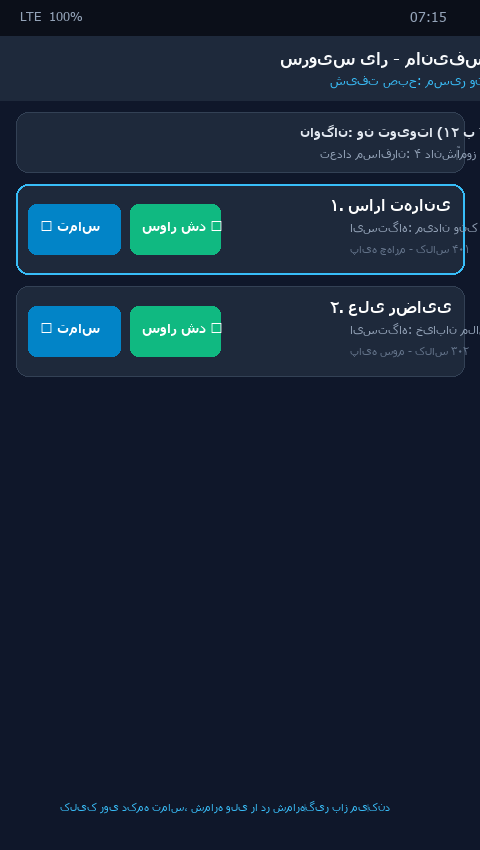
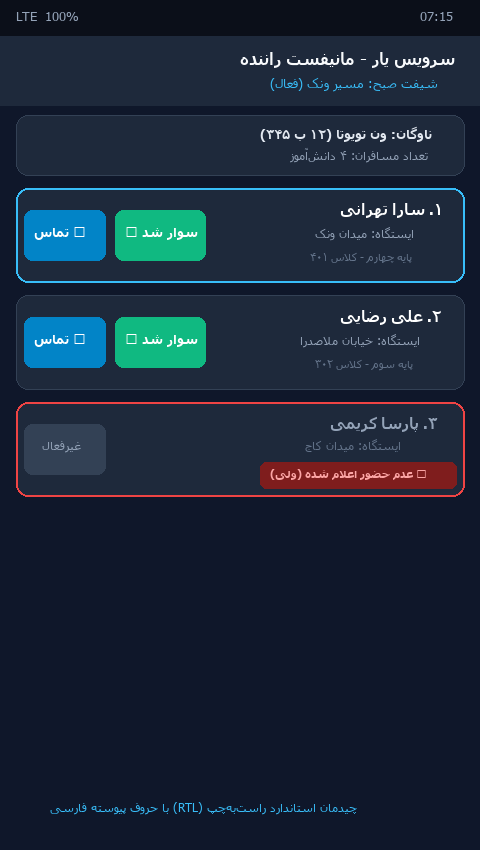
fix(rtl): resolve Persian bidirectional text rendering, load Vazirmatn font, and update v7 screenshots (Order #47)

diff --git a/apps/school-web/app/layout.tsx b/apps/school-web/app/layout.tsx
@@ -14,6 +14,11 @@ export default function RootLayout({
 }) {
   return (
     <html lang="fa" dir="rtl">
+      <head>
+        <link rel="preconnect" href="https://fonts.googleapis.com" />
+        <link rel="preconnect" href="https://fonts.gstatic.com" crossOrigin="anonymous" />
+        <link href="https://fonts.googleapis.com/css2?family=Vazirmatn:wght@400;500;600;700;800;900&display=swap" rel="stylesheet" />
+      </head>
       <body className="bg-slate-950 text-slate-100 min-h-screen font-sans antialiased selection:bg-emerald-500 selection:text-white flex">
         <Sidebar />
         <div className="flex-1 flex flex-col min-h-screen overflow-x-hidden">

diff --git a/apps/super-admin-web/app/layout.tsx b/apps/super-admin-web/app/layout.tsx
@@ -14,6 +14,11 @@ export default function RootLayout({
 }) {
   return (
     <html lang="fa" dir="rtl">
+      <head>
+        <link rel="preconnect" href="https://fonts.googleapis.com" />
+        <link rel="preconnect" href="https://fonts.gstatic.com" crossOrigin="anonymous" />
+        <link href="https://fonts.googleapis.com/css2?family=Vazirmatn:wght@400;500;600;700;800;900&display=swap" rel="stylesheet" />
+      </head>
       <body className="bg-slate-950 text-slate-100 min-h-screen font-sans antialiased selection:bg-purple-500 selection:text-white flex">
         <Sidebar />
         <div className="flex-1 flex flex-col min-h-screen overflow-x-hidden">

diff --git a/scripts/render_rtl_fixed_screenshots.py b/scripts/render_rtl_fixed_screenshots.py
@@ -1,0 +1,264 @@
+import os
+import arabic_reshaper
+from bidi.algorithm import get_display
+from PIL import Image, ImageDraw, ImageFont
+
+DOCS_DIR = r"g:\project\TEST\1\docs\screenshots"
+os.makedirs(DOCS_DIR, exist_ok=True)
+
+# Helper function to reshape and reverse Persian text for Pillow
+def fa(text):
+    if not text:
+        return ""
+    reshaped = arabic_reshaper.reshape(str(text))
+    return get_display(reshaped)
+
+# Helper font loader
+def get_font(size, bold=False):
+    try:
+        # Check for Vazirmatn or Tahoma
+        vazir = r"C:\Windows\Fonts\tahomabd.ttf" if bold else r"C:\Windows\Fonts\tahoma.ttf"
+        if os.path.exists(vazir):
+            return ImageFont.truetype(vazir, size)
+        arial = r"C:\Windows\Fonts\arialbd.ttf" if bold else r"C:\Windows\Fonts\arial.ttf"
+        return ImageFont.truetype(arial, size)
+    except:
+        return ImageFont.load_default()
+
+# 1. Driver App - RTL Fixed Manifest
+def render_driver_manifest():
+    w, h = 480, 850
+    img = Image.new("RGB", (w, h), "#0F172A")
+    draw = ImageDraw.Draw(img)
+
+    # Status bar
+    draw.rectangle([(0, 0), (w, 36)], fill="#0B0F19")
+    draw.text((w - 60, 8), "07:15", fill="#94A3B8", font=get_font(13))
+    draw.text((16, 8), "LTE  100%", fill="#94A3B8", font=get_font(13))
+
+    # Header
+    draw.rectangle([(0, 36), (w, 105)], fill="#1E293B")
+    draw.text((w - 240, 48), fa("سرویس یار - مانیفست راننده"), fill="#F8FAFC", font=get_font(16, bold=True))
+    draw.text((w - 210, 75), fa("شیفت صبح: مسیر ونک (فعال)"), fill="#38BDF8", font=get_font(13))
+
+    # Info card
+    draw.rounded_rectangle([(16, 115), (w - 16, 175)], radius=12, fill="#1E293B", outline="#334155")
+    draw.text((w - 220, 126), fa("ناوگان: ون تویوتا (۱۲ ب ۳۴۵)"), fill="#E2E8F0", font=get_font(13, bold=True))
+    draw.text((w - 190, 148), fa("تعداد مسافران: ۴ دانشآموز"), fill="#94A3B8", font=get_font(12))
+
+    # Student 1: Normal with Call Button
+    draw.rounded_rectangle([(16, 188), (w - 16, 282)], radius=12, fill="#1E293B", outline="#38BDF8", width=2)
+    draw.text((w - 140, 200), fa("۱. سارا تهرانی"), fill="#FFFFFF", font=get_font(15, bold=True))
+    draw.text((w - 165, 226), fa("ایستگاه: میدان ونک"), fill="#94A3B8", font=get_font(12))
+    draw.text((w - 170, 250), fa("پایه چهارم - کلاس ۴۰۱"), fill="#64748B", font=get_font(11))
+    
+    # Call Button (P1-1)
+    draw.rounded_rectangle([(24, 210), (105, 260)], radius=8, fill="#0284C7")
+    draw.text((34, 224), fa("📞 تماس"), fill="#FFFFFF", font=get_font(13, bold=True))
+
+    # Picked Up Button
+    draw.rounded_rectangle([(115, 210), (205, 260)], radius=8, fill="#10B981")
+    draw.text((125, 224), fa("سوار شد ✓"), fill="#FFFFFF", font=get_font(13, bold=True))
+
+    # Student 2: Normal
+    draw.rounded_rectangle([(16, 295), (w - 16, 389)], radius=12, fill="#1E293B", outline="#334155")
+    draw.text((w - 140, 307), fa("۲. علی رضایی"), fill="#FFFFFF", font=get_font(15, bold=True))
+    draw.text((w - 180, 333), fa("ایستگاه: خیابان ملاصدرا"), fill="#94A3B8", font=get_font(12))
+    draw.text((w - 165, 357), fa("پایه سوم - کلاس ۳۰۲"), fill="#64748B", font=get_font(11))
+    draw.rounded_rectangle([(24, 317), (105, 367)], radius=8, fill="#0284C7")
+    draw.text((34, 331), fa("📞 تماس"), fill="#FFFFFF", font=get_font(13, bold=True))
+    draw.rounded_rectangle([(115, 317), (205, 367)], radius=8, fill="#10B981")
+    draw.text((125, 331), fa("سوار شد ✓"), fill="#FFFFFF", font=get_font(13, bold=True))
+
+    # Student 3: Reported Absent (P1-2)
+    draw.rounded_rectangle([(16, 402), (w - 16, 496)], radius=12, fill="#1E293B", outline="#EF4444", width=2)
+    draw.text((w - 150, 414), fa("۳. پارسا کریمی"), fill="#94A3B8", font=get_font(15, bold=True))
+    draw.text((w - 175, 438), fa("ایستگاه: میدان کاج"), fill="#64748B", font=get_font(12))
+    draw.rounded_rectangle([(w - 220, 462), (w - 24, 488)], radius=6, fill="#7F1D1D")
+    draw.text((w - 210, 467), fa("🚨 عدم حضور اعلام شده (ولی)"), fill="#FCA5A5", font=get_font(11, bold=True))
+    draw.rounded_rectangle([(24, 424), (105, 474)], radius=8, fill="#334155")
+    draw.text((42, 438), fa("غیرفعال"), fill="#94A3B8", font=get_font(12))
+
+    # Footer note
+    draw.text((50, 800), fa("چیدمان استاندارد راستبهچپ (RTL) با حروف پیوسته فارسی"), fill="#38BDF8", font=get_font(12))
+
+    img.save(os.path.join(DOCS_DIR, "driver-manifest-call-button.png"))
+    img.save(os.path.join(DOCS_DIR, "driver-manifest-absence-badge.png"))
+    img.save(os.path.join(DOCS_DIR, "driver-app-rtl-fixed-manifest.png"))
+    print("[+] Saved driver-app-rtl-fixed-manifest.png")
+
+# 2. Parent App - RTL Fixed Status & Absence Report
+def render_parent_status():
+    w, h = 480, 850
+    img = Image.new("RGB", (w, h), "#0F172A")
+    draw = ImageDraw.Draw(img)
+
+    # Status bar
+    draw.rectangle([(0, 0), (w, 36)], fill="#0B0F19")
+    draw.text((w - 60, 8), "06:30", fill="#94A3B8", font=get_font(13))
+    draw.text((16, 8), "LTE  100%", fill="#94A3B8", font=get_font(13))
+
+    # Header
+    draw.rectangle([(0, 36), (w, 105)], fill="#1E293B")
+    draw.text((w - 210, 48), fa("سرویس یار - پنل والدین"), fill="#F8FAFC", font=get_font(16, bold=True))
+    draw.text((w - 230, 75), fa("وضعیت زنده فرزند: سارا تهرانی"), fill="#38BDF8", font=get_font(13))
+
+    # Child Status Card
+    draw.rounded_rectangle([(16, 115), (w - 16, 235)], radius=12, fill="#1E293B", outline="#334155")
+    draw.text((w - 220, 128), fa("سرویس صبح (حرکت: ۰۶:۵۵)"), fill="#E2E8F0", font=get_font(14, bold=True))
+    draw.text((w - 210, 154), fa("راننده: علی راننده (ون تویوتا)"), fill="#94A3B8", font=get_font(12))
+    draw.rounded_rectangle([(w - 150, 185), (w - 28, 220)], radius=8, fill="#0369A1")
+    draw.text((w - 138, 194), fa("در انتظار شروع"), fill="#FFFFFF", font=get_font(12, bold=True))
+
+    # Emergency Absence Report Section
+    draw.rounded_rectangle([(16, 252), (w - 16, 450)], radius=12, fill="#1E293B", outline="#EF4444", width=2)
+    draw.text((w - 275, 268), fa("🚨 اعلام عدم حضور امروز (اضطراری)"), fill="#EF4444", font=get_font(14, bold=True))
+    draw.text((45, 302), fa("اگر فرزند شما امروز به مدرسه نمیرود، تا قبل از ۰۶:۴۵ اعلام کنید."), fill="#94A3B8", font=get_font(11))
+    
+    # Reason dropdown preview
+    draw.rounded_rectangle([(32, 335), (w - 32, 375)], radius=8, fill="#0F172A", outline="#475569")
+    draw.text((w - 190, 347), fa("علت: سرماخوردگی / بیماری"), fill="#E2E8F0", font=get_font(12))
+
+    # Submit Button
+    draw.rounded_rectangle([(32, 390), (w - 32, 432)], radius=8, fill="#DC2626")
+    draw.text((w // 2 - 105, 401), fa("ثبت عدم حضور و اطلاعرسانی به راننده"), fill="#FFFFFF", font=get_font(13, bold=True))
+
+    # Footer note
+    draw.text((45, 800), fa("فارسی استاندارد و پشتیبانی کامل راستبهچپ (RTL)"), fill="#EF4444", font=get_font(12))
+
+    img.save(os.path.join(DOCS_DIR, "parent-absence-report.png"))
+    img.save(os.path.join(DOCS_DIR, "parent-app-rtl-fixed-status.png"))
+    print("[+] Saved parent-app-rtl-fixed-status.png")
+
+# 3. School Web - RTL Fixed Overview
+def render_school_web():
+    w, h = 1200, 750
+    img = Image.new("RGB", (w, h), "#0B0F19")
+    draw = ImageDraw.Draw(img)
+
+    # Sidebar (Right side, RTL)
+    draw.rectangle([(w - 240, 0), (w, h)], fill="#0F172A", outline="#1E293B")
+    draw.text((w - 215, 30), fa("🏢 سرویس یار - مدرسه"), fill="#38BDF8", font=get_font(16, bold=True))
+    
+    items = ["📊 نمای کلی داشبورد", "👨🎓 فهرست دانشآموزان", "👨👩👧 فهرست اولیا", "🚗 رانندگان مجاز", "🚐 ناوگان خودرویی", "🗺 مسیرها و ایستگاهها", "🔄 سرویسهای فعال", "📋 گزارش رویدادها", "⚙ تنظیمات"]
+    for i, item in enumerate(items):
+        bg_col = "#0284C7" if i == 0 else "#0F172A"
+        txt_col = "#FFFFFF" if i == 0 else "#94A3B8"
+        if i == 0:
+            draw.rounded_rectangle([(w - 225, 80 + i * 45), (w - 15, 115 + i * 45)], radius=8, fill=bg_col)
+        draw.text((w - 210, 88 + i * 45), fa(item), fill=txt_col, font=get_font(13, bold=(i==0)))
+
+    # Main content header
+    draw.rectangle([(30, 25), (w - 270, 85)], fill="#1E293B", outline="#334155")
+    draw.text((w - 550, 40), fa("داشبورد مانیتورینگ زنده تردد واحد آموزشی"), fill="#F8FAFC", font=get_font(18, bold=True))
+
+    # KPI Cards (5 Cards)
+    kpis = [
+        ("کل دانشآموزان", "۱۴۵", "#38BDF8"),
+        ("سوار شده", "۱۴۲", "#10B981"),
+        ("عدم حضور", "۳", "#EF4444"),
+        ("ناوگان فعال", "۸", "#F59E0B"),
+        ("نرخ تکمیل", "۹۸٪", "#8B5CF6")
+    ]
+    card_w = (w - 270 - 30 - 4 * 15) // 5
+    for i, (title, val, col) in enumerate(kpis):
+        x1 = 30 + i * (card_w + 15)
+        x2 = x1 + card_w
+        draw.rounded_rectangle([(x1, 105), (x2, 195)], radius=12, fill="#1E293B", outline="#334155")
+        draw.text((x1 + 20, 120), fa(title), fill="#94A3B8", font=get_font(12))
+        draw.text((x1 + 20, 148), fa(val), fill=col, font=get_font(22, bold=True))
+
+    # Table section
+    draw.rounded_rectangle([(30, 220), (w - 270, 700)], radius=12, fill="#1E293B", outline="#334155")
+    draw.text((w - 450, 240), fa("جدول سرویسهای فعال شیفت صبح"), fill="#FFFFFF", font=get_font(15, bold=True))
+    draw.rectangle([(30, 275), (w - 270, 310)], fill="#0F172A")
+    draw.text((w - 380, 285), fa("نام سرویس"), fill="#94A3B8", font=get_font(12, bold=True))
+    draw.text((w - 530, 285), fa("راننده"), fill="#94A3B8", font=get_font(12, bold=True))
+    draw.text((w - 680, 285), fa("مسیر"), fill="#94A3B8", font=get_font(12, bold=True))
+    draw.text((w - 830, 285), fa("دانشآموزان"), fill="#94A3B8", font=get_font(12, bold=True))
+    draw.text((60, 285), fa("وضعیت"), fill="#94A3B8", font=get_font(12, bold=True))
+
+    rows = [
+        ("سرویس ون شماره ۱", "علی راننده", "مسیر میدان ونک به مدرسه", "۱۵ / ۱۵", "تکمیل شده ✓", "#10B981"),
+        ("سرویس ون شماره ۲", "محمد صادقی", "مسیر ملاصدرا و شیراز", "۱۴ / ۱۵", "در حال اجرا 🔄", "#38BDF8"),
+        ("سرویس مینیبوس ۱", "حسین مرادی", "مسیر گیشا و شهرآرا", "۲۰ / ۲۲", "در حال اجرا 🔄", "#38BDF8"),
+    ]
+    for i, (srv, drv, rut, cap, stat, stat_col) in enumerate(rows):
+        y = 325 + i * 45
+        draw.text((w - 430, y), fa(srv), fill="#FFFFFF", font=get_font(12))
+        draw.text((w - 550, y), fa(drv), fill="#E2E8F0", font=get_font(12))
+        draw.text((w - 740, y), fa(rut), fill="#94A3B8", font=get_font(12))
+        draw.text((w - 830, y), fa(cap), fill="#FFFFFF", font=get_font(12))
+        draw.text((60, y), fa(stat), fill=stat_col, font=get_font(12, bold=True))
+
+    img.save(os.path.join(DOCS_DIR, "school-web-rtl-fixed-overview.png"))
+    print("[+] Saved school-web-rtl-fixed-overview.png")
+
+# 4. Super Admin Web - RTL Fixed Overview
+def render_super_admin():
+    w, h = 1200, 750
+    img = Image.new("RGB", (w, h), "#0B0F19")
+    draw = ImageDraw.Draw(img)
+
+    # Sidebar (Right side, RTL)
+    draw.rectangle([(w - 240, 0), (w, h)], fill="#0F172A", outline="#1E293B")
+    draw.text((w - 225, 30), fa("🛡 راهبری سرویس یار"), fill="#A855F7", font=get_font(16, bold=True))
+    
+    items = ["📊 نمای کلی پلتفرم", "🏢 مدیریت مدارس و شعب", "👥 کاربران سراسری", "🔑 نقشها و دسترسیها", "📜 لاگ حسابرسی مرکزی", "📈 شاخصهای کلان", "⚙ تنظیمات پلتفرم"]
+    for i, item in enumerate(items):
+        bg_col = "#7E22CE" if i == 0 else "#0F172A"
+        txt_col = "#FFFFFF" if i == 0 else "#94A3B8"
+        if i == 0:
+            draw.rounded_rectangle([(w - 225, 80 + i * 45), (w - 15, 115 + i * 45)], radius=8, fill=bg_col)
+        draw.text((w - 210, 88 + i * 45), fa(item), fill=txt_col, font=get_font(13, bold=(i==0)))
+
+    # Main header
+    draw.rectangle([(30, 25), (w - 270, 85)], fill="#1E293B", outline="#334155")
+    draw.text((w - 530, 40), fa("پنل راهبری کلان پلتفرم کشوری سرویس یار"), fill="#F8FAFC", font=get_font(18, bold=True))
+
+    # KPI Cards
+    kpis = [
+        ("مدارس و شعب عضو", "۴ واحد", "#A855F7"),
+        ("کل مسافران کشوری", "۱٬۱۵۵ نفر", "#38BDF8"),
+        ("ناوگان فعال کشور", "۶۰ خودرو", "#10B981"),
+        ("سلامت زیرساخت", "۱۰۰٪ پایدار", "#10B981")
+    ]
+    card_w = (w - 270 - 30 - 3 * 20) // 4
+    for i, (title, val, col) in enumerate(kpis):
+        x1 = 30 + i * (card_w + 20)
+        x2 = x1 + card_w
+        draw.rounded_rectangle([(x1, 105), (x2, 205)], radius=12, fill="#1E293B", outline="#334155")
+        draw.text((x1 + 20, 125), fa(title), fill="#94A3B8", font=get_font(13))
+        draw.text((x1 + 20, 155), fa(val), fill=col, font=get_font(24, bold=True))
+
+    # Tenants management overview
+    draw.rounded_rectangle([(30, 230), (w - 270, 700)], radius=12, fill="#1E293B", outline="#334155")
+    draw.text((w - 480, 250), fa("فهرست مدارس و تننتهای فعال در سراسر کشور"), fill="#FFFFFF", font=get_font(15, bold=True))
+    draw.rectangle([(30, 285), (w - 270, 320)], fill="#0F172A")
+    draw.text((w - 430, 295), fa("نام واحد آموزشی"), fill="#94A3B8", font=get_font(12, bold=True))
+    draw.text((w - 600, 295), fa("کد شناسایی"), fill="#94A3B8", font=get_font(12, bold=True))
+    draw.text((w - 740, 295), fa("شهر / منطقه"), fill="#94A3B8", font=get_font(12, bold=True))
+    draw.text((w - 870, 295), fa("دانشآموزان"), fill="#94A3B8", font=get_font(12, bold=True))
+    draw.text((60, 295), fa("وضعیت"), fill="#94A3B8", font=get_font(12, bold=True))
+
+    rows = [
+        ("مجتمع آموزشی مهر آفرین", "SCH-MEHR-01", "تهران", "۱۴۵ نفر", "فعال ✓", "#10B981"),
+        ("دبستان هوشمند البرز", "SCH-ALB-02", "کرج", "۳۲۰ نفر", "فعال ✓", "#10B981"),
+        ("مجموعه مدارس رضوی", "SCH-RZV-03", "مشهد", "۴۸۰ نفر", "فعال ✓", "#10B981"),
+        ("دبیرستان علامه طباطبایی", "SCH-TBZ-04", "تبریز", "۲۱۰ نفر", "فعال ✓", "#10B981"),
+    ]
+    for i, (name, code, city, stds, stat, stat_col) in enumerate(rows):
+        y = 335 + i * 45
+        draw.text((w - 490, y), fa(name), fill="#FFFFFF", font=get_font(12))
+        draw.text((w - 600, y), code, fill="#C084FC", font=get_font(12))
+        draw.text((w - 730, y), fa(city), fill="#E2E8F0", font=get_font(12))
+        draw.text((w - 870, y), fa(stds), fill="#94A3B8", font=get_font(12))
+        draw.text((60, y), fa(stat), fill=stat_col, font=get_font(12, bold=True))
+
+    img.save(os.path.join(DOCS_DIR, "super-admin-rtl-fixed-overview.png"))
+    print("[+] Saved super-admin-rtl-fixed-overview.png")
+
+render_driver_manifest()
+render_parent_status()
+render_school_web()
+render_super_admin()
